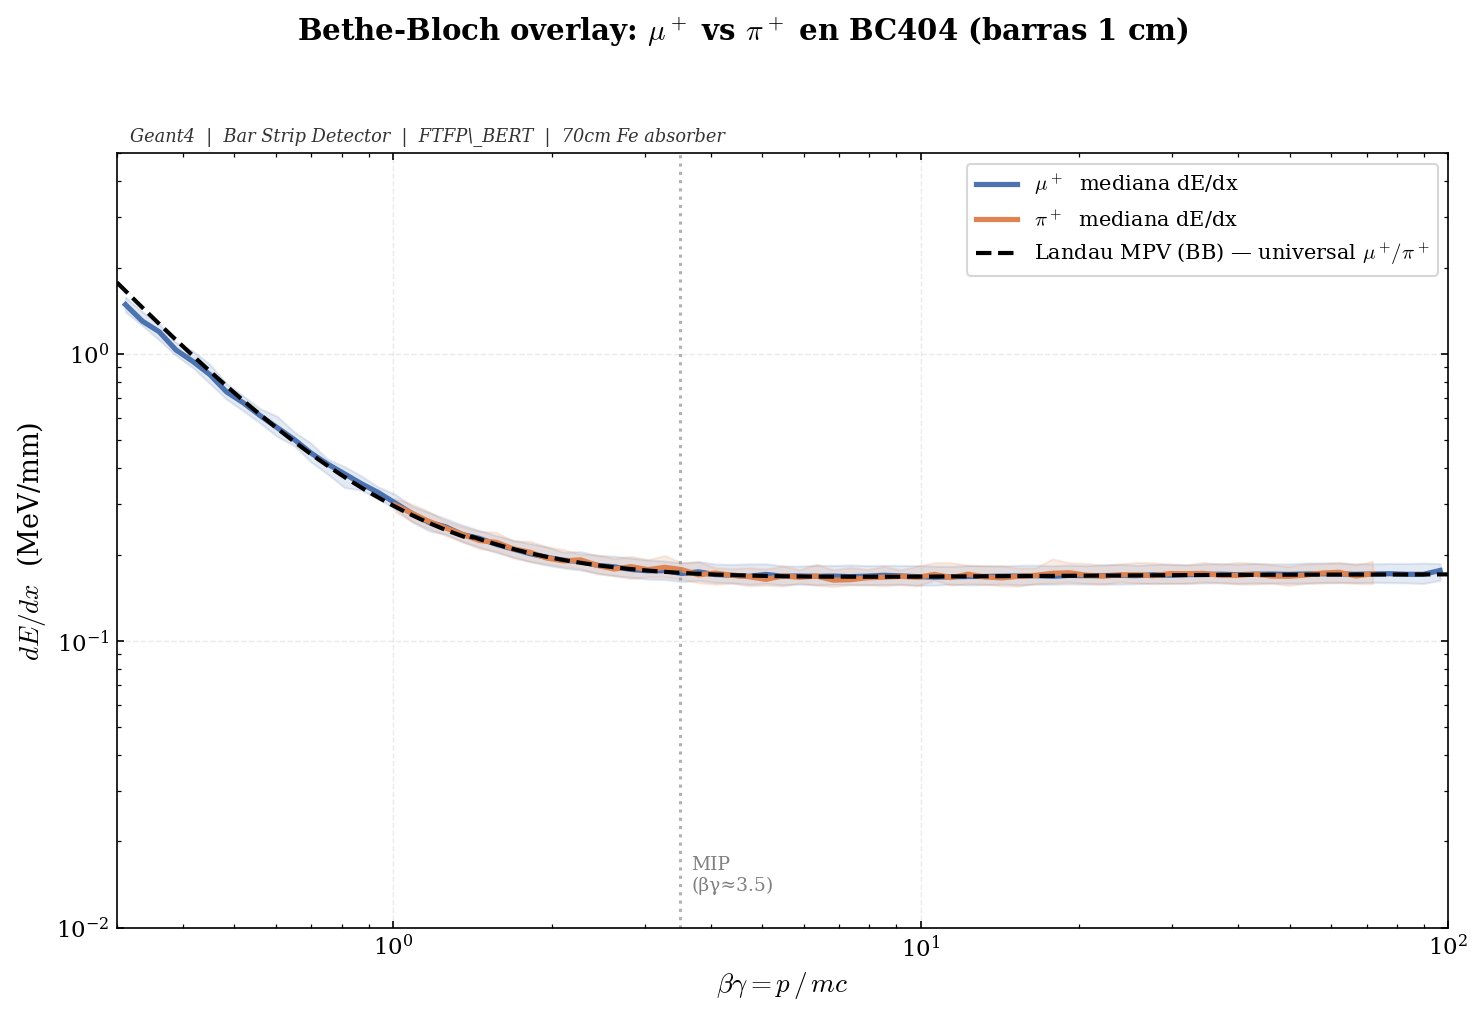
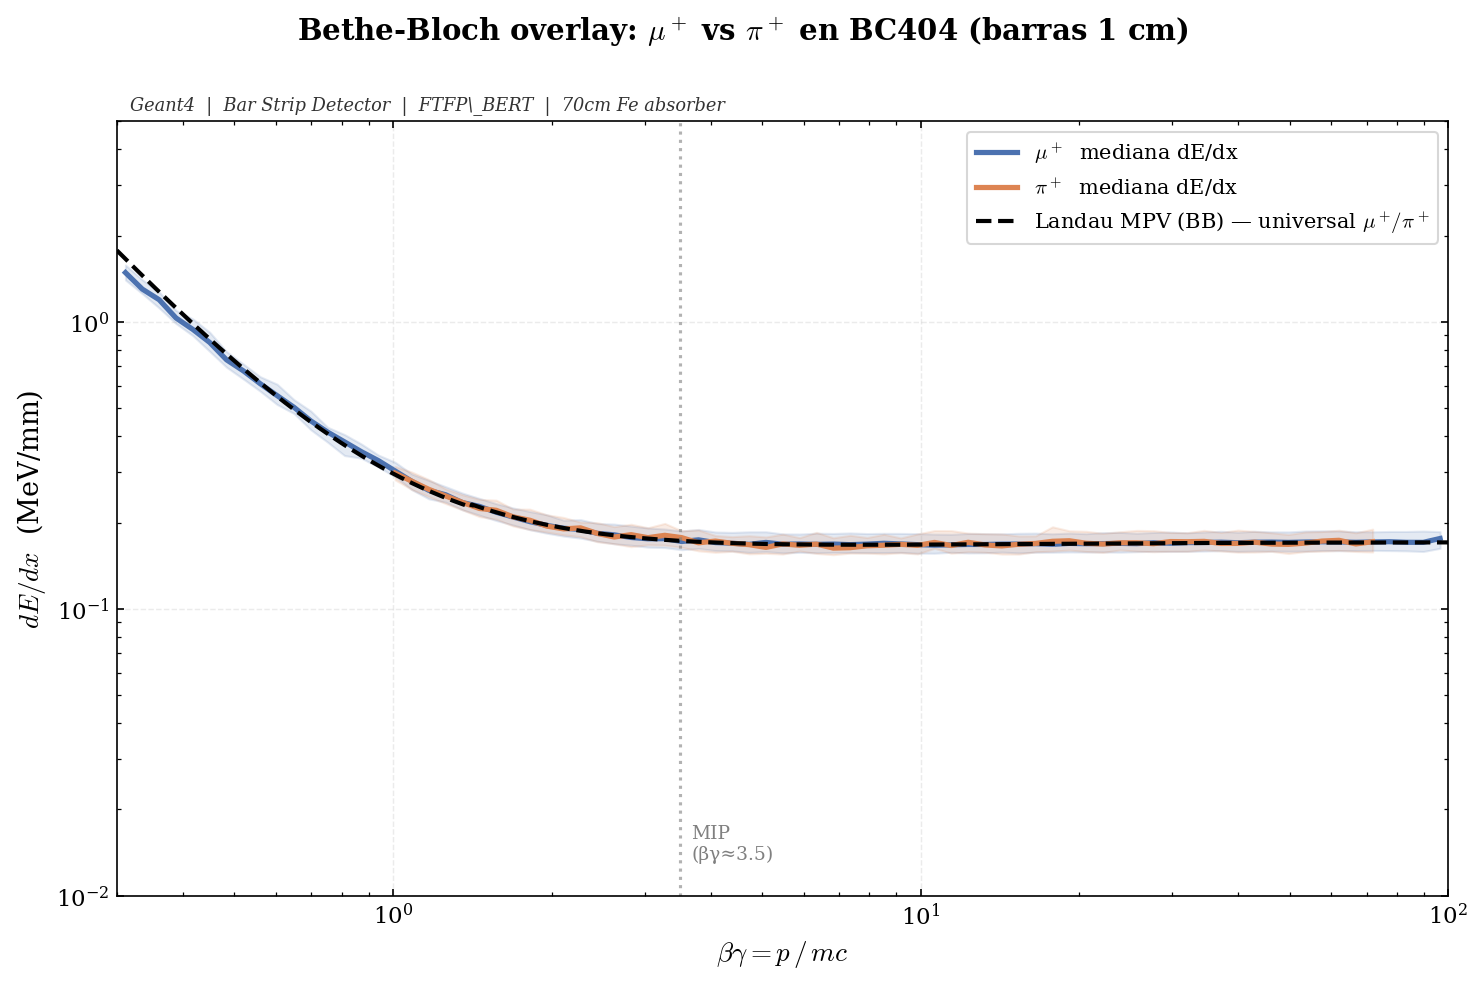
Update B-field simulation: Bz=0.5T → Bx=1.0T
- construction.cc: Changed magnetic field direction from Z to X,
  intensity from 0.5 T to 1.0 T (G4ThreeVector(1.0*tesla, 0., 0.))

- plot_all.py:
  * INFO_STR and titles updated to Bx = 1.0 T
  * detector_layout: B-field arrows now point in +x direction (vertical
    in Z-X lateral view), label updated
  * Title padding adjustments:
    - Raised 60%: landau, eff_momento, eff_angulo (pad=10→16)
    - Lowered 30%: bethe_bloch_overlay, pid_combined (y=0.96→0.93)

- Regenerated all 10 PNGs with updated labels and layout

diff --git a/Bar Strip Detector + B-field 0.5T/plot_all.py b/Bar Strip Detector + B-field 0.5T/plot_all.py
@@ -95,7 +95,7 @@ plt.rcParams.update({
     "ytick.minor.visible": True,
 })
 
-INFO_STR = r"Geant4  |  Bar Strip Detector  |  70 cm Fe + BC404  |  FTFP\_BERT  |  $B_z = 0.5\,\mathrm{T}$"
+INFO_STR = r"Geant4  |  Bar Strip Detector  |  70 cm Fe + BC404  |  FTFP\_BERT  |  $B_x = 1.0\,\mathrm{T}$"
 
 # ============================================================================
 # Fisica: Bethe-Bloch, Landau MPV, Sternheimer
@@ -410,10 +410,10 @@ def plot_detector_layout(out_dir, seed=42):
 
     fig = plt.figure(figsize=(21, 7))
     fig.suptitle(
-        r"Bar Strip Detector + $B_z = 0.5\ \mathrm{T}$ — Configuración del sistema" + "\n"
+        r"Bar Strip Detector + $B_x = 1.0\ \mathrm{T}$ — Configuración del sistema" + "\n"
         r"Absorbedor: G4\_Fe  70$\times$70$\times$70 cm  |  "
         r"Centellador: BC404  |  "
-        r"Campo magnético: $B_z = 0.5\ \mathrm{T}$ en región vacío (fuente → Fe)",
+        r"Campo magnético: $B_x = 1.0\ \mathrm{T}$ en región vacío (fuente → Fe)",
         fontsize=12, fontweight="bold", y=0.99, va="top")
 
     gs = fig.add_gridspec(1, 3, width_ratios=[3.2, 2, 2],
@@ -461,13 +461,13 @@ def plot_detector_layout(out_dir, seed=42):
             [-x_fe - 4, -x_fe - 4, x_fe + 4, x_fe + 4],
             color="deepskyblue", alpha=0.08, zorder=0)
     ax.text((z_src + z_fe0) / 2, x_fe + 2,
-            r"$\vec{B}_z = 0.5\ \mathrm{T}$",
+            r"$\vec{B}_x = 1.0\ \mathrm{T}$",
             ha="center", va="bottom", fontsize=10,
             color="deepskyblue", fontweight="bold", zorder=4)
 
-    # Flechas de campo magnético (↑ hacia +z, representando Bz) — 4 flechas uniformes
+    # Flechas de campo magnético (→ hacia +x, representando Bx) — 4 flechas uniformes
     for zb in np.linspace(z_src + 30, z_fe0 - 15, 4):
-        ax.annotate("", xy=(zb + 20, 0), xytext=(zb, 0),
+        ax.annotate("", xy=(zb, 18), xytext=(zb, 3),
                     arrowprops=dict(arrowstyle="-|>", color="deepskyblue",
                                     lw=1.5, mutation_scale=12),
                     zorder=4)
@@ -530,7 +530,7 @@ def plot_detector_layout(out_dir, seed=42):
 
     legend_elems = [
         Patch(facecolor="deepskyblue", alpha=0.25,
-              label=r"Región $B_z = 0.5\ \mathrm{T}$"),
+              label=r"Región $B_x = 1.0\ \mathrm{T}$"),
         Line2D([0], [0], marker="*", color="darkred", linestyle="None", ms=11,
                label="fuente puntual"),
         Line2D([0], [0], color="darkorange", lw=2,
@@ -682,7 +682,7 @@ def plot_overlay(mu, pi, out_dir):
     ax.set_xlim(bg_range); ax.set_ylim(DEDX_MIN, DEDX_MAX)
     ax.legend(fontsize=10, **_legend_kwargs())
     _add_info(ax)
-    fig.suptitle(r"Bethe-Bloch overlay: $\mu^+$ vs $\pi^+$ en BC404 (barras 1 cm)", fontsize=14, fontweight="bold", y=0.96)
+    fig.suptitle(r"Bethe-Bloch overlay: $\mu^+$ vs $\pi^+$ en BC404 (barras 1 cm)", fontsize=14, fontweight="bold", y=0.93)
     fig.tight_layout(rect=[0, 0, 1, 0.93])
     _save(fig, out_dir, "bethe_bloch_overlay.png")
 
@@ -749,7 +749,7 @@ def plot_pid_combined(mu, pi, out_dir):
     ax.set_ylabel(r"$dE/dx$  (MeV/mm)", fontsize=13)
     ax.set_xlim(p_range_GeV); ax.set_ylim(0, DEDX_LIN_MAX)
     _add_info(ax)
-    fig.suptitle(r"PID: $\mu^+$ vs $\pi^+$ en BC404 bar strip detector", fontsize=14, fontweight="bold", y=0.96)
+    fig.suptitle(r"PID: $\mu^+$ vs $\pi^+$ en BC404 bar strip detector", fontsize=14, fontweight="bold", y=0.93)
     fig.tight_layout(rect=[0, 0, 1, 0.93])
     _save(fig, out_dir, "pid_combined.png")
 
@@ -840,7 +840,7 @@ def plot_landau_corregida(mixed_path, out_dir):
     ax.set_xlim(0.01, 5.0)
     ax.set_ylim(1e-3, 5)
     ax.legend(fontsize=10, loc="upper right", **_legend_kwargs())
-    ax.set_title(r"Distribución de Landau — haz mixto $\mu^+$/$\pi^+$  ($p_0 \approx 1$ GeV/c)", fontsize=14, fontweight="bold", pad=10)
+    ax.set_title(r"Distribución de Landau — haz mixto $\mu^+$/$\pi^+$  ($p_0 \approx 1$ GeV/c)", fontsize=14, fontweight="bold", pad=16)
     _setup_ax(ax, log_y=True)
 
     stats_text = (
@@ -916,7 +916,7 @@ def plot_eff_momento_corregida(mixed_path, out_dir):
     ax.set_ylabel(r"Eficiencia $\varepsilon$ (%)")
     ax.set_ylim(-3, 105)
     ax.set_xlim(0.04, 11)
-    ax.set_title(r"Eficiencia de detección vs $p_0$", fontsize=14, fontweight="bold", pad=10)
+    ax.set_title(r"Eficiencia de detección vs $p_0$", fontsize=14, fontweight="bold", pad=16)
     _setup_ax(ax)
 
     ax.axvline(0.5, color="gray", ls=":", lw=1.2, alpha=0.6, zorder=0)
@@ -1021,7 +1021,7 @@ def plot_eff_angulo_corregida(mixed_path, out_dir):
     ax.set_ylim(-3, 110)
     ax.axhline(50, color="gray", ls=":", lw=1, alpha=0.5)
     ax.legend(fontsize=12, **_legend_kwargs())
-    ax.set_title(r"Eficiencia vs ángulo del cono $\theta$", fontsize=14, fontweight="bold", pad=10)
+    ax.set_title(r"Eficiencia vs ángulo del cono $\theta$", fontsize=14, fontweight="bold", pad=16)
     _setup_ax(ax)
 
     theta_lateral = np.degrees(np.arctan(35.0 / 270.0))

diff --git a/Bar Strip Detector + B-field 0.5T/simulation_mixed/construction.cc b/Bar Strip Detector + B-field 0.5T/simulation_mixed/construction.cc
@@ -87,9 +87,9 @@ void MyDetectorConstruction::ConstructSDandField()
 	if(logicBarraY != nullptr)
 		logicBarraY->SetSensitiveDetector(sensDet);
 
-	// Campo magnético uniforme Bz = 0.5 T (global)
+	// Campo magnético uniforme Bx = 1.0 T (global)
 	G4MagneticField* magField =
-	    new G4UniformMagField(G4ThreeVector(0., 0., 0.5*tesla));
+	    new G4UniformMagField(G4ThreeVector(1.0*tesla, 0., 0.));
 
 	G4FieldManager* fieldMgr =
 	    G4TransportationManager::GetTransportationManager()->GetFieldManager();
